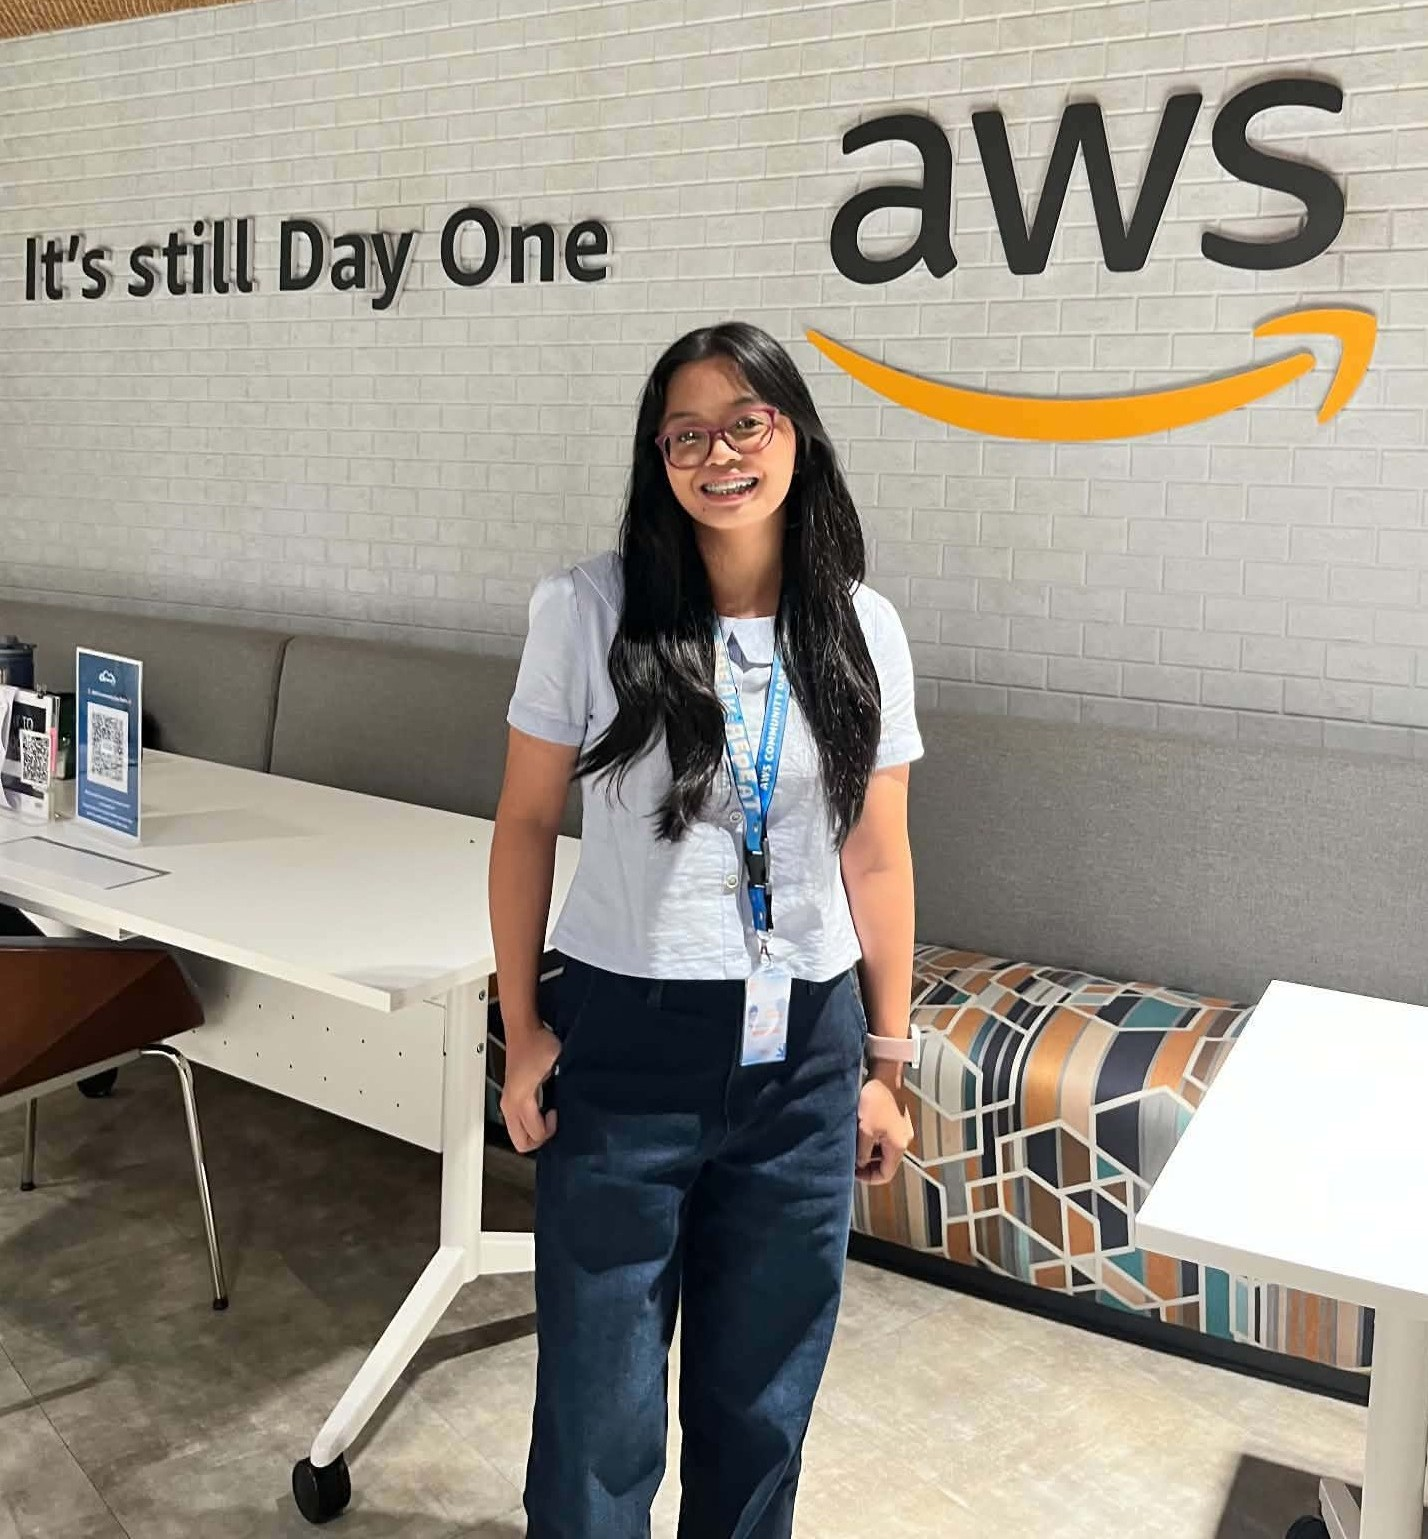
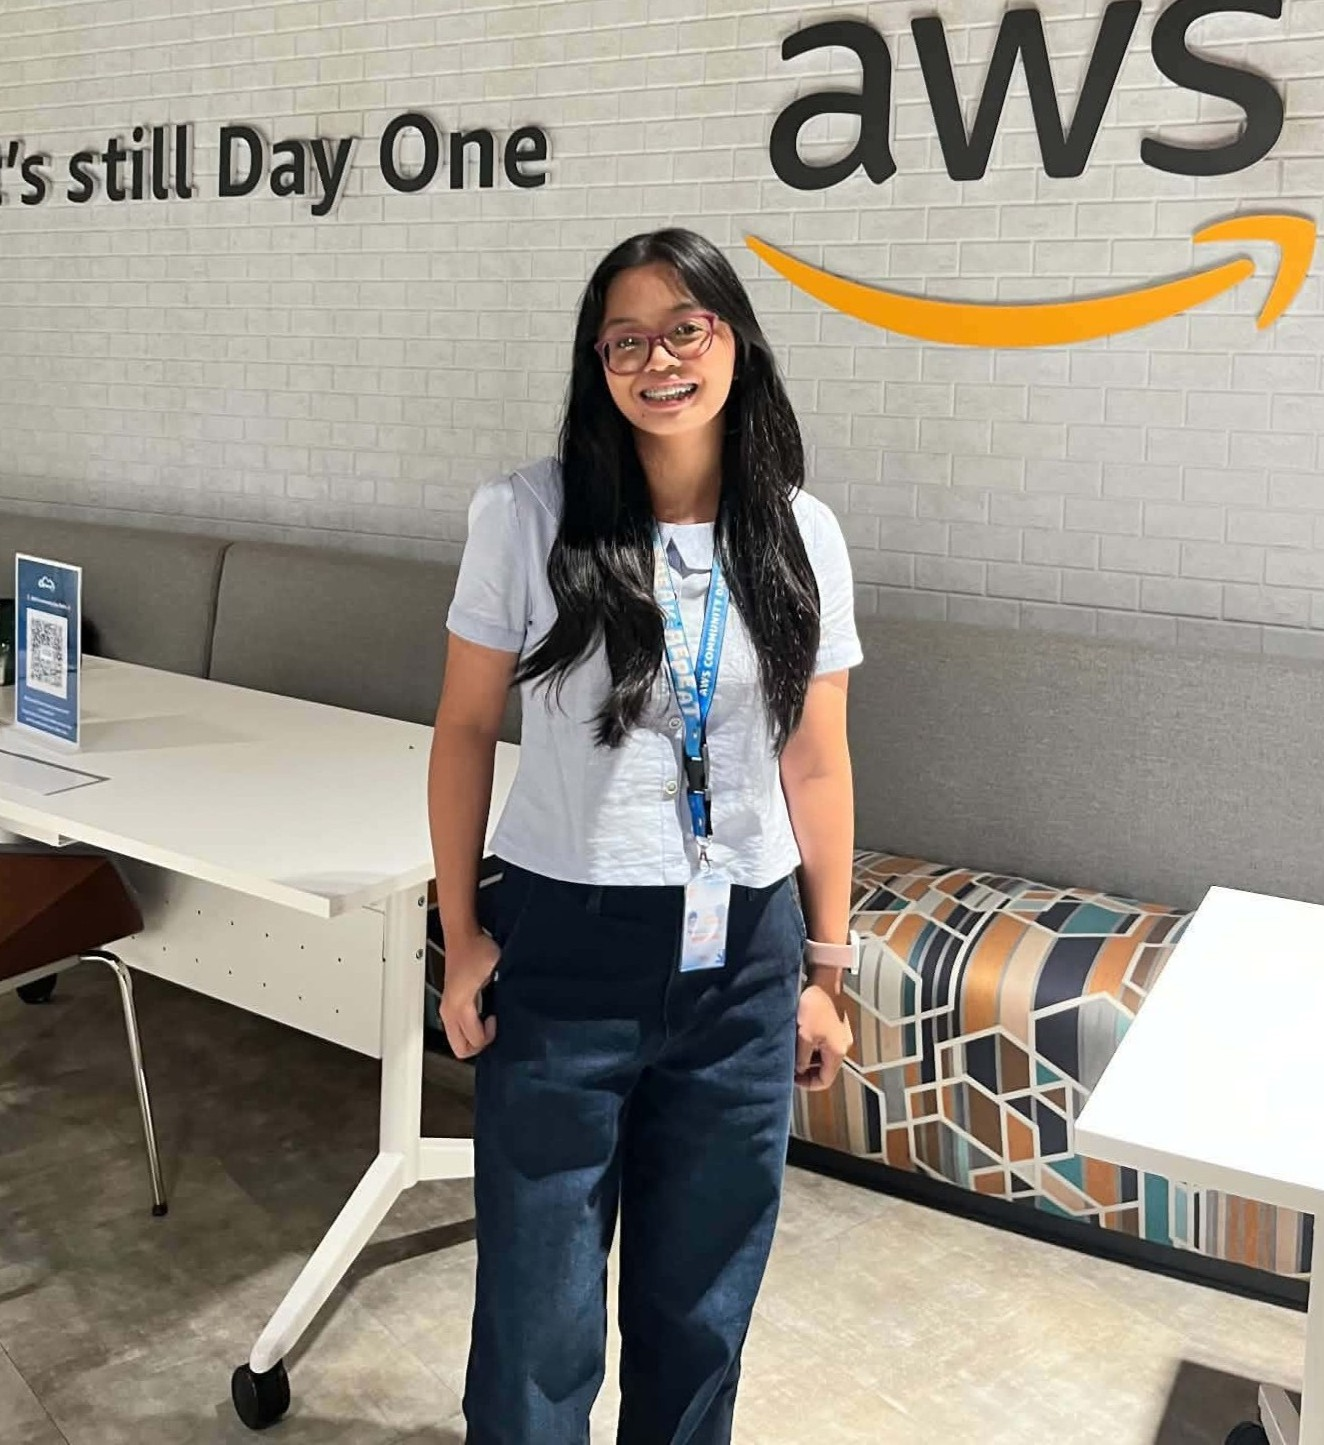
refactor(speakers): remove per-photo position and zoom options

diff --git a/src/data/speakers.ts b/src/data/speakers.ts
@@ -28,10 +28,6 @@ export interface Speaker {
   image?: {
     src: ImageMetadata;
     alt: string;
-    // Part of the photo kept in the frame, as 'x y' (e.g. 'center 20%' keeps the head of a tall photo). Default 'center'.
-    position?: string;
-    // Zooms in toward `position`; 1 is no zoom, 1.3 is 30% closer. Default 1.
-    zoom?: number;
   };
   socials?: SpeakerSocial[];
 }
@@ -43,7 +39,7 @@ export const speakers: Speaker[] = [
     name: 'Asi Guiang',
     role: 'Keynote Speaker',
     bionote: 'XYZ',
-    image: { src: IB_Guiang, alt: 'Asi Guiang', zoom: 1.1},
+    image: { src: IB_Guiang, alt: 'Asi Guiang'},
     socials: [
       { platform: 'linkedin', url: 'https://www.linkedin.com/' },
       { platform: 'facebook', url: 'https://www.facebook.com/' },
@@ -69,7 +65,7 @@ export const speakers: Speaker[] = [
     name: 'Jodi Gabano',
     role: 'Tech Talk',
     bionote: 'XYZ',
-    image: { src: J_Gabano, alt: 'Jodi Gabano', zoom: 1.2},
+    image: { src: J_Gabano, alt: 'Jodi Gabano'},
     socials: [
       { platform: 'linkedin', url: 'https://www.linkedin.com/' },
       { platform: 'facebook', url: 'https://www.facebook.com/' },
